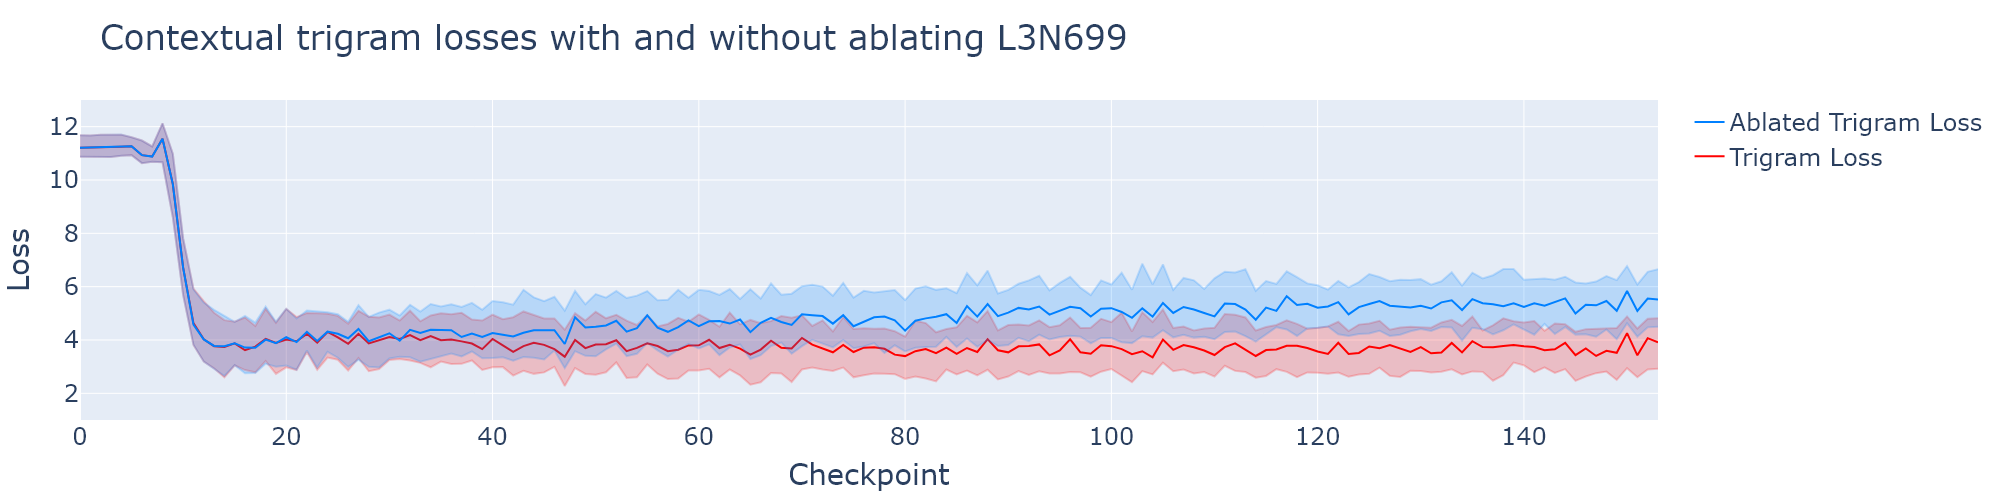
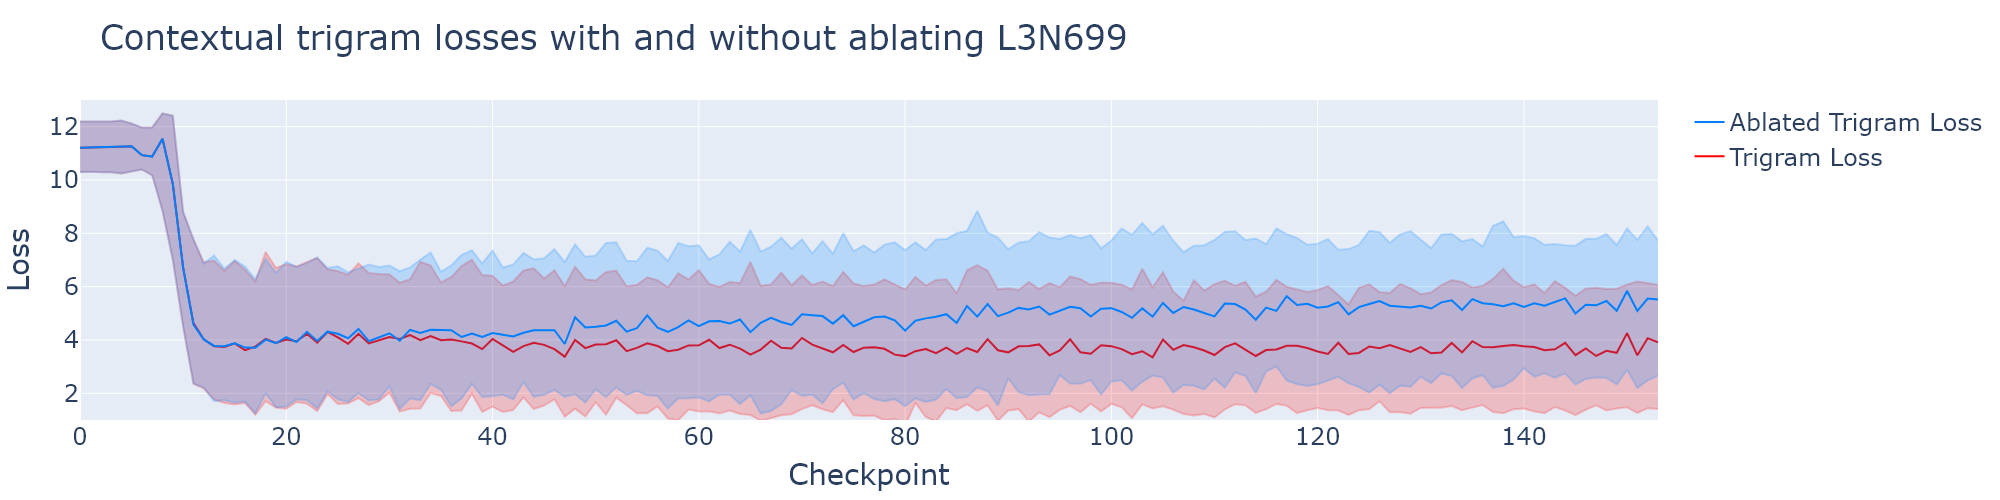
plot update

Changed region(s): [[0.031, 0.21, 0.837, 0.84]]

diff --git a/ngram_evaluation_viz.py b/ngram_evaluation_viz.py
@@ -92,14 +92,14 @@ def process_data(model_name: str, output_dir: Path, image_dir: Path) -> None:
     fig.write_image(image_dir.joinpath("figure_1.png"), width=2000)
 
     # Calculate percentiles at each x-coordinate
-    percentiles = [0.25, 0.5, 0.75]
+    percentiles = [0.05, 0.5, 0.95]
     grouped = context_effect_df.groupby('Checkpoint')['Original Loss'].describe(percentiles=percentiles).reset_index()
     # Plot
     fig = make_subplots()
     shade_color_1 = 'rgba(255,0,0,0.2)'
     line_color_1 = 'rgb(255,0,0)'
-    fig.add_trace(go.Scatter(x=grouped['Checkpoint'], y=grouped['25%'], fill=None, mode='lines', line_color=shade_color_1, showlegend=False))
-    fig.add_trace(go.Scatter(x=grouped['Checkpoint'], y=grouped['75%'], fill='tonexty', fillcolor=shade_color_1, line_color=shade_color_1, name="25th-75th percentile", showlegend=False))
+    fig.add_trace(go.Scatter(x=grouped['Checkpoint'], y=grouped['5%'], fill=None, mode='lines', line_color=shade_color_1, showlegend=False))
+    fig.add_trace(go.Scatter(x=grouped['Checkpoint'], y=grouped['95%'], fill='tonexty', fillcolor=shade_color_1, line_color=shade_color_1, name="25th-75th percentile", showlegend=False))
     fig.add_trace(go.Scatter(x=grouped['Checkpoint'], y=grouped['50%'], mode='lines', line=dict(color=line_color_1, width=2), name="Trigram Loss"))
     fig.update_layout(title="German trigram (N=235) losses over checkpoints", xaxis_title="Checkpoint", yaxis_title="Loss")
 
@@ -107,8 +107,8 @@ def process_data(model_name: str, output_dir: Path, image_dir: Path) -> None:
     # Plot
     shade_color_2 = 'rgba(0,128,255,0.2)'
     line_color_2 = 'rgb(0,128,255)'
-    fig.add_trace(go.Scatter(x=grouped['Checkpoint'], y=grouped['25%'], fill=None, mode='lines', line_color=shade_color_2, showlegend=False))
-    fig.add_trace(go.Scatter(x=grouped['Checkpoint'], y=grouped['75%'], fill='tonexty', fillcolor=shade_color_2, line_color=shade_color_2, name="25th-75th percentile", showlegend=False))
+    fig.add_trace(go.Scatter(x=grouped['Checkpoint'], y=grouped['5%'], fill=None, mode='lines', line_color=shade_color_2, showlegend=False))
+    fig.add_trace(go.Scatter(x=grouped['Checkpoint'], y=grouped['95%'], fill='tonexty', fillcolor=shade_color_2, line_color=shade_color_2, name="25th-75th percentile", showlegend=False))
     fig.add_trace(go.Scatter(x=grouped['Checkpoint'], y=grouped['50%'], mode='lines', line=dict(color=line_color_2, width=2), name="Ablated Trigram Loss"))
     fig.update_layout(xaxis_title="Checkpoint", yaxis_title="Loss")
 
